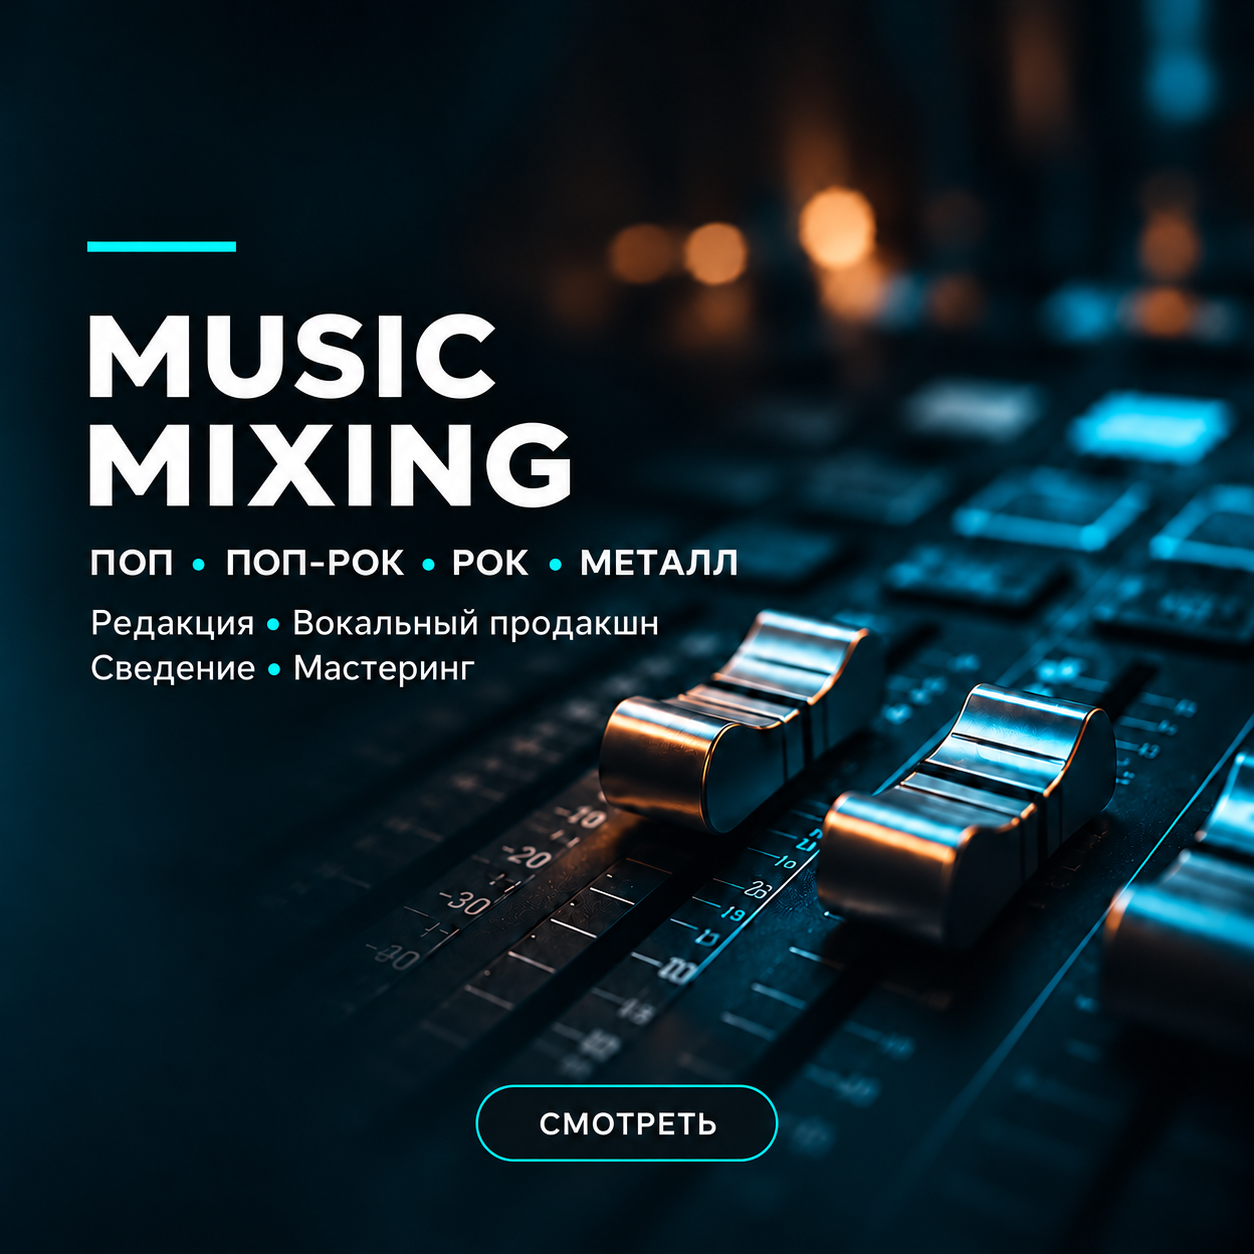
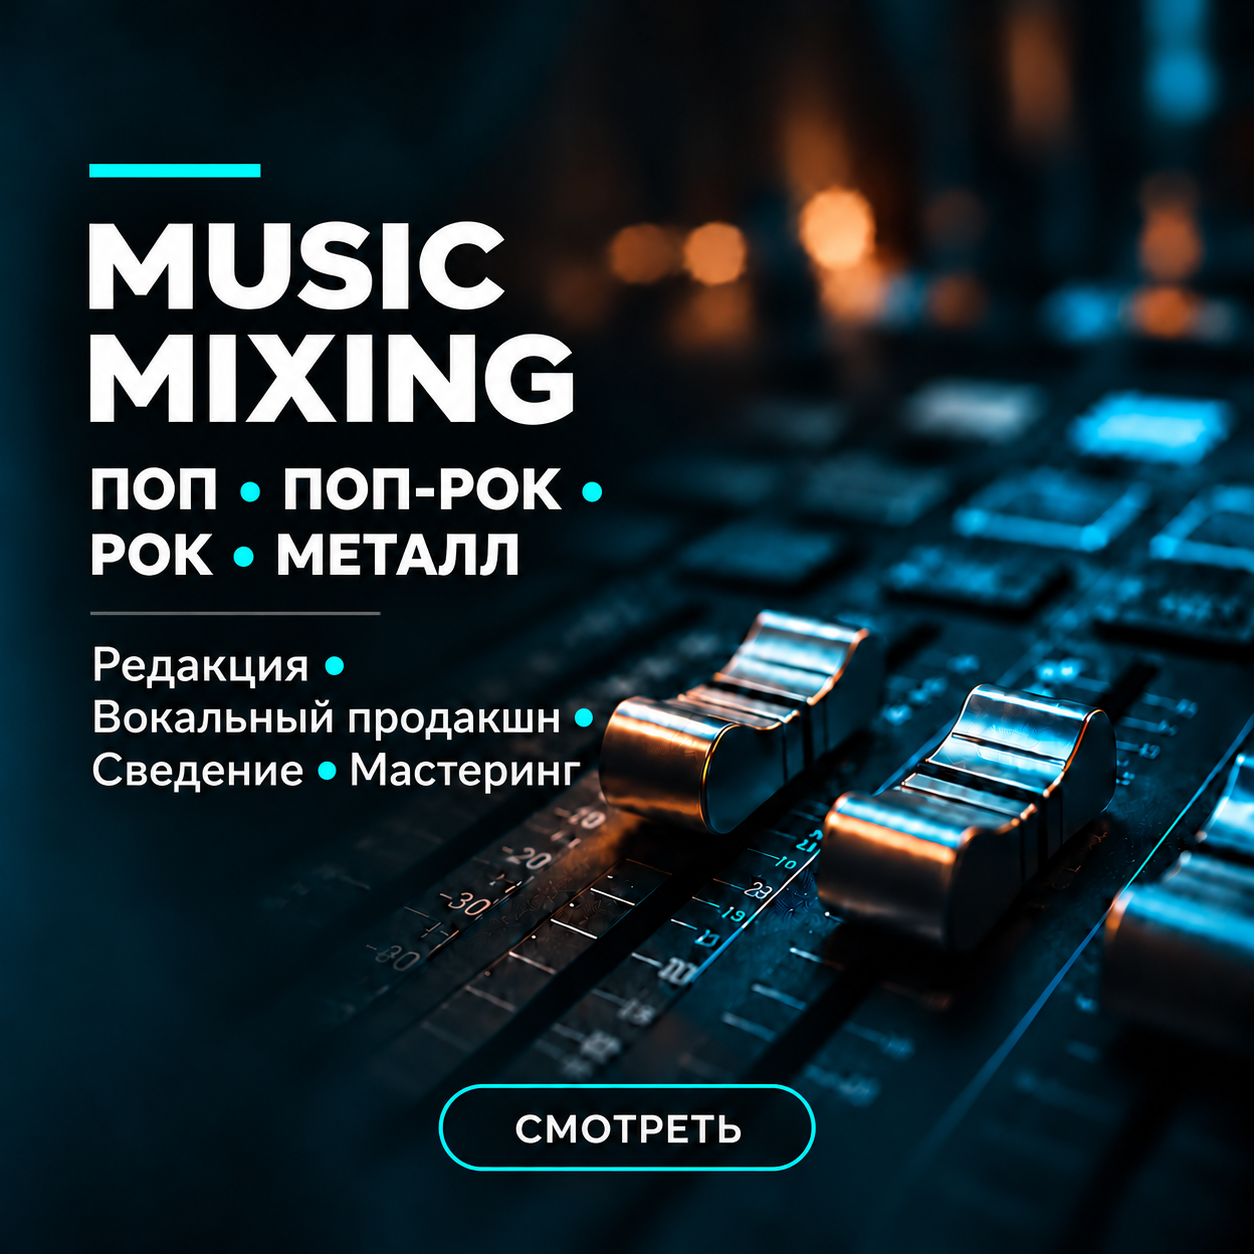
Improve cover typography and composition

diff --git a/index.html b/index.html
@@ -11,7 +11,7 @@
 <body id="top"><main>
 <div class="desktop-navigation"><div class="brand"><span>ЗВУКОРЕЖИССЁР</span><h1>ДМИТРИЙ ЛЕПИЛКИН</h1></div><div class="header-specialties" role="group" aria-label="Направления работы"><span>ПОСТПРОДАКШЕН</span><span>СВЕДЕНИЕ</span><span>МАСТЕРИНГ</span></div></div>
 
-<div class="home-content"><section id="works" aria-label="Направления работ"><div class="desktop-work-heading"><a class="cta" href="#desktop-cards">МОИ РАБОТЫ <span aria-hidden="true">↓</span></a></div><div class="desktop-cards" id="desktop-cards"><a class="desktop-card" href="post-production.html" aria-label="Post-Production: Кино, Трейлеры, Саунд-дизайн"><picture><img src="post-production-cover.png" alt="Post-Production. Кино · Трейлеры · Саунд-дизайн. Звуковой продакшн · Диалоги · Атмосферы · Сведение. Смотреть" width="1254" height="1254" fetchpriority="high"></picture></a><a class="desktop-card" href="music-player-test.html" aria-label="Music Mixing: музыкальные работы"><picture><img src="music-mixing-cover.png" alt="Music Mixing. Поп · Поп-рок · Рок · Металл. Редакция · Вокальный продакшн · Сведение · Мастеринг. Смотреть" width="1254" height="1254"></picture></a></div></section><section id="about" class="about" aria-label="О Дмитрии Лепилкине"><div class="about-copy"><p>Окончил СПбГУП по специальности «Звукорежиссура».</p><p>Более 15 лет в звукорежиссуре, из них 12 лет — на телевидении.</p><p>Занимаюсь сведением и мастерингом музыки, звуковым постпродакшеном кино, трейлеров и рекламы.</p></div><div class="about-photo"><img src="about.png" alt="Дмитрий Лепилкин в студии" loading="lazy"></div></section><footer id="contacts" class="footer contact-footer"><span class="contact-label">СВЯЗАТЬСЯ СО МНОЙ</span><nav class="contact-links" aria-label="Связаться с Дмитрием"><a href="https://t.me/dmitry_sandalik" target="_blank" rel="noopener noreferrer" aria-label="Telegram: @dmitry_sandalik" title="Telegram"><img src="telegram-logo.png" alt="Telegram"></a><a href="https://vk.ru/lepilkin" target="_blank" rel="noopener noreferrer" aria-label="ВКонтакте" title="VK"><img src="vk-logo.png" alt="VK"></a><a href="https://max.ru/u/f9LHodD0cOIl2ZSZwa2K6gN7Z_w7_o9onIcd2tIZ8EqZnX-kVQxglE42egE" target="_blank" rel="noopener noreferrer" aria-label="MAX" title="MAX"><img src="max-logo.png" alt="MAX"></a></nav></footer></div>
+<div class="home-content"><section id="works" aria-label="Направления работ"><div class="desktop-work-heading"><a class="cta" href="#desktop-cards">МОИ РАБОТЫ <span aria-hidden="true">↓</span></a></div><div class="desktop-cards" id="desktop-cards"><a class="desktop-card" href="post-production.html" aria-label="Post-Production: Кино, Трейлеры, Саунд-дизайн"><picture><img src="post-production-cover.png?v=20261102-type3" alt="Post-Production. Кино · Трейлеры · Саунд-дизайн. Звуковой продакшн · Диалоги · Атмосферы · Сведение. Смотреть" width="1254" height="1254" fetchpriority="high"></picture></a><a class="desktop-card" href="music-player-test.html" aria-label="Music Mixing: музыкальные работы"><picture><img src="music-mixing-cover.png?v=20261102-type3" alt="Music Mixing. Поп · Поп-рок · Рок · Металл. Редакция · Вокальный продакшн · Сведение · Мастеринг. Смотреть" width="1254" height="1254"></picture></a></div></section><section id="about" class="about" aria-label="О Дмитрии Лепилкине"><div class="about-copy"><p>Окончил СПбГУП по специальности «Звукорежиссура».</p><p>Более 15 лет в звукорежиссуре, из них 12 лет — на телевидении.</p><p>Занимаюсь сведением и мастерингом музыки, звуковым постпродакшеном кино, трейлеров и рекламы.</p></div><div class="about-photo"><img src="about.png" alt="Дмитрий Лепилкин в студии" loading="lazy"></div></section><footer id="contacts" class="footer contact-footer"><span class="contact-label">СВЯЗАТЬСЯ СО МНОЙ</span><nav class="contact-links" aria-label="Связаться с Дмитрием"><a href="https://t.me/dmitry_sandalik" target="_blank" rel="noopener noreferrer" aria-label="Telegram: @dmitry_sandalik" title="Telegram"><img src="telegram-logo.png" alt="Telegram"></a><a href="https://vk.ru/lepilkin" target="_blank" rel="noopener noreferrer" aria-label="ВКонтакте" title="VK"><img src="vk-logo.png" alt="VK"></a><a href="https://max.ru/u/f9LHodD0cOIl2ZSZwa2K6gN7Z_w7_o9onIcd2tIZ8EqZnX-kVQxglE42egE" target="_blank" rel="noopener noreferrer" aria-label="MAX" title="MAX"><img src="max-logo.png" alt="MAX"></a></nav></footer></div>
 </main></body></html>
 
 <style>.number,.arrow{display:none}</style>
